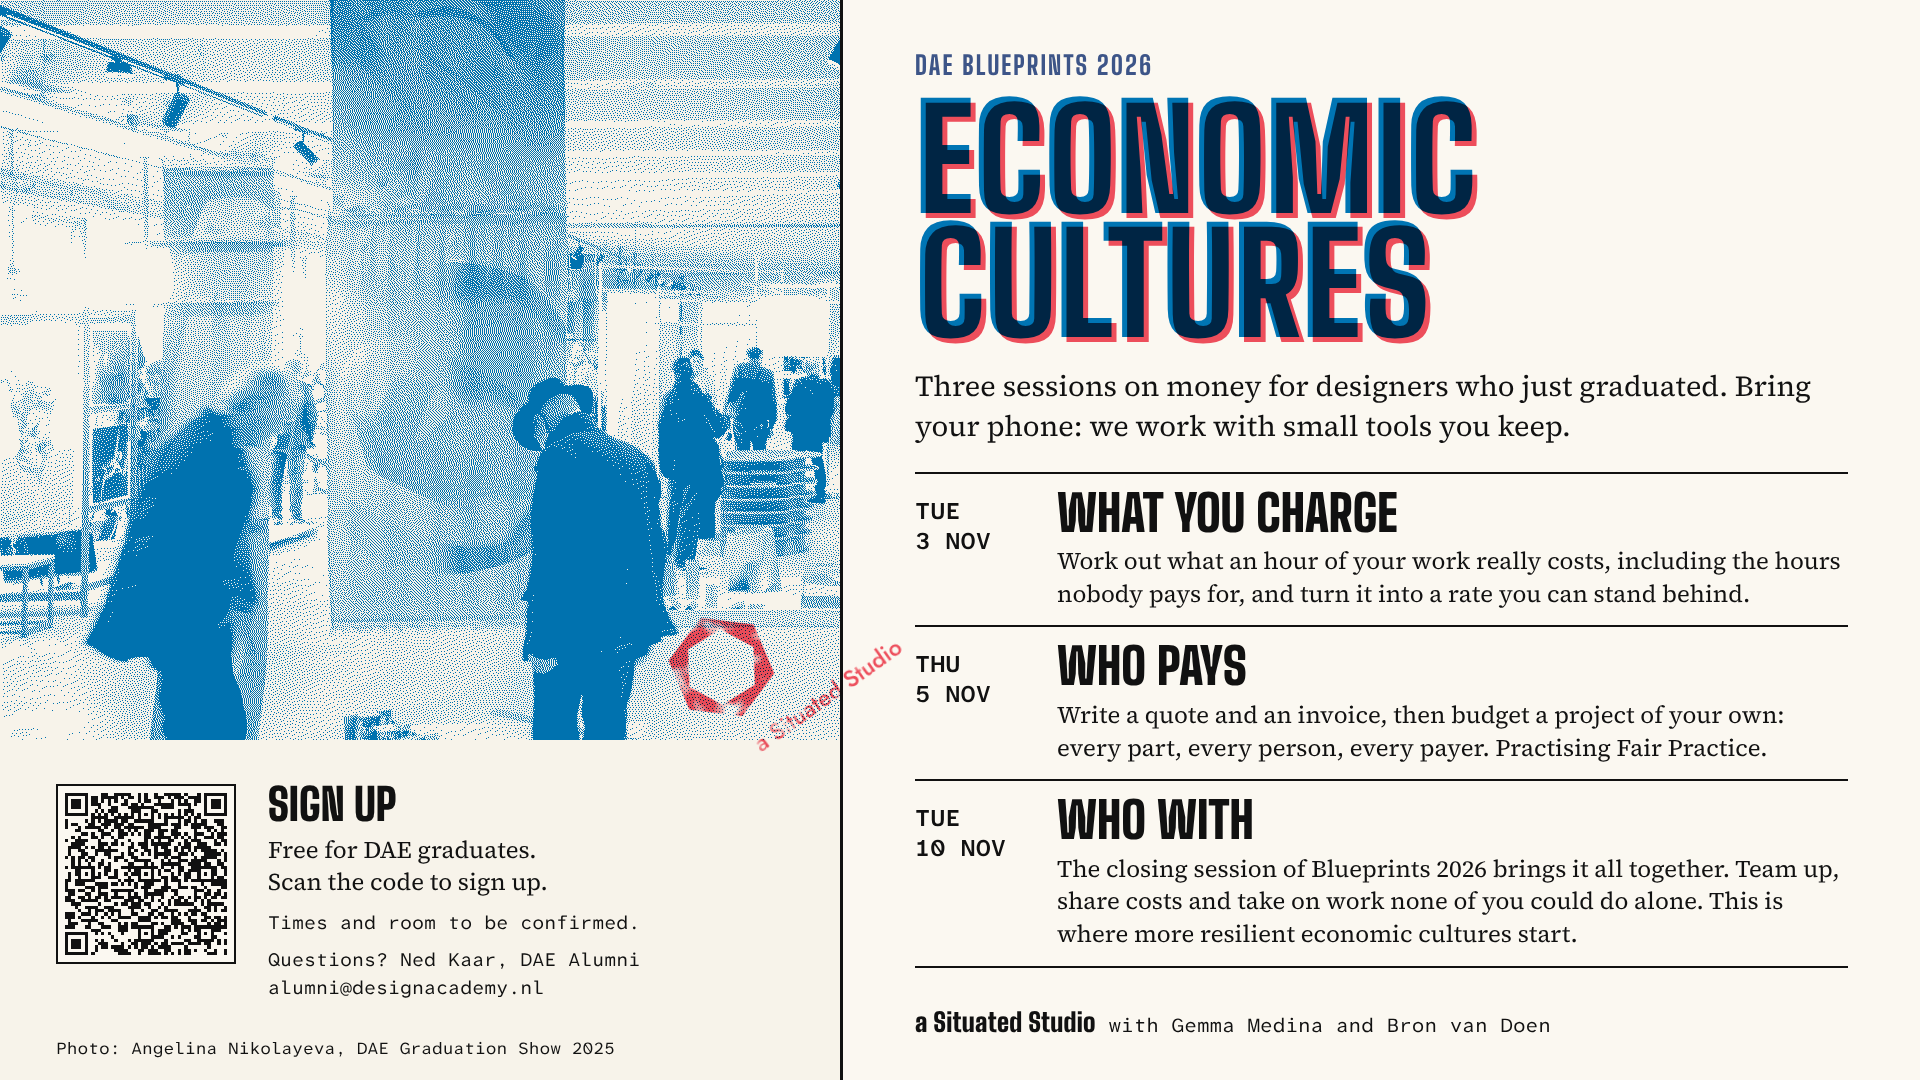
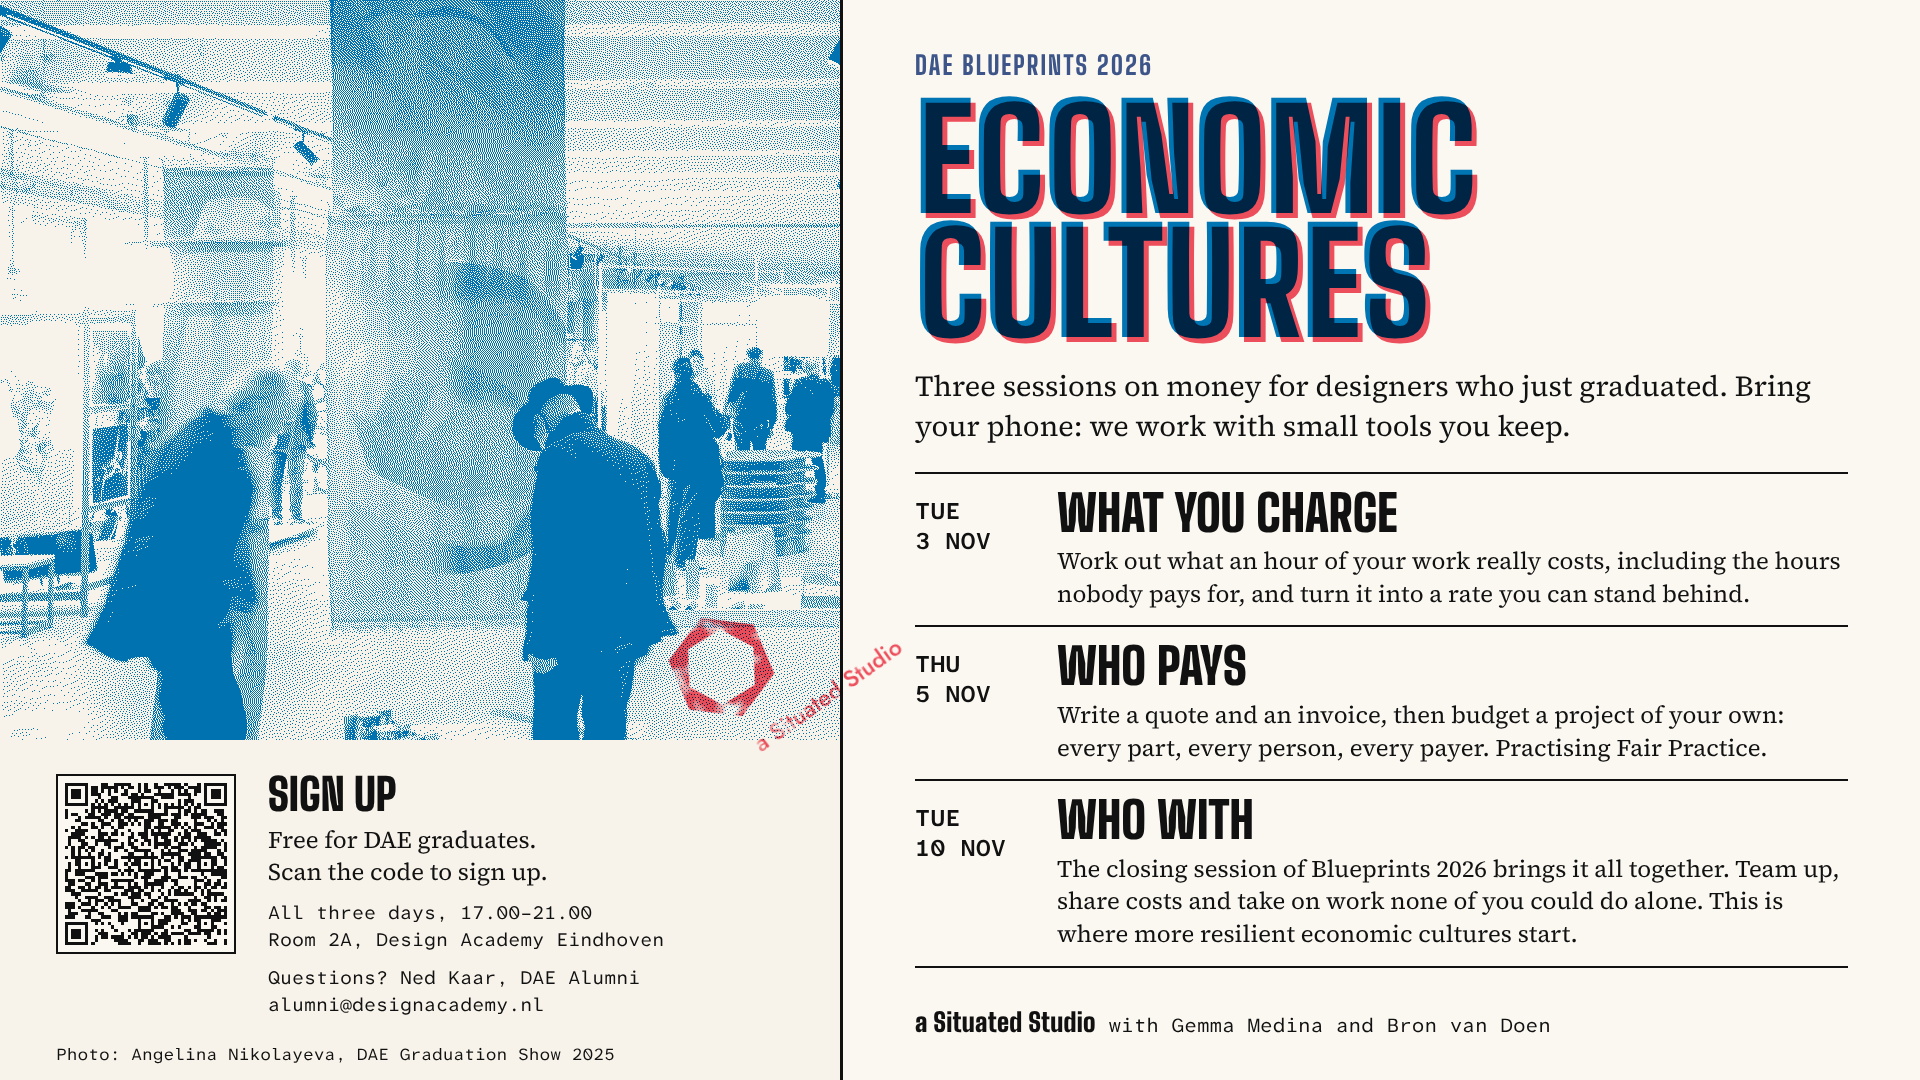
Economic Cultures flyer: times 17.00-21.00, Room 2A at Design Academy Eindhoven
Claude-Session: https://claude.ai/code/session_01SR4pp8G8YnCUnFiueeY4rd

Changed region(s): [[0.0312, 0.7028, 0.3438, 0.9778]]

diff --git a/public/prints/economic-cultures/blueprints-2026/index.html b/public/prints/economic-cultures/blueprints-2026/index.html
@@ -31,12 +31,12 @@ body.render{padding:0}
 .left{display:grid;grid-template-rows:740px 1fr}
 .photo{width:840px;height:740px;background:var(--ink-1);mix-blend-mode:multiply;
   -webkit-mask:url(photo-grain.png) 0 0/840px 740px no-repeat;mask:url(photo-grain.png) 0 0/840px 740px no-repeat}
-.signup{display:grid;grid-template-columns:180px 1fr;column-gap:32px;align-items:start;padding:44px 56px 0}
+.signup{display:grid;grid-template-columns:180px 1fr;column-gap:32px;align-items:start;padding:34px 56px 0}
 .qr{width:180px;height:180px;display:block;border:var(--rule) solid var(--ink)}
 .signup h2{font:900 44px/.95 var(--display);text-transform:uppercase;margin:0 0 8px}
 .signup p{font:400 24px/1.35 var(--text);margin:0 0 8px}
 .signup .contact{font:400 19px/1.45 var(--label);margin:10px 0 0}
-.signup .credit{grid-column:1/-1;font:400 17px/1.4 var(--label);margin:16px 0 0}
+.signup .credit{grid-column:1/-1;font:400 17px/1.4 var(--label);margin:12px 0 0}
 
 /* right: the raised sheet with all the text */
 .panel{background:var(--paper-raised);border-left:var(--rule-heavy) solid var(--ink);padding:52px 72px 40px;display:flex;flex-direction:column}
@@ -76,7 +76,7 @@ body.render{padding:0}
       <div>
         <h2>Sign up</h2>
         <p>Free for DAE graduates.<br>Scan the code to sign up.</p>
-        <p class="contact">Times and room to be confirmed.</p>
+        <p class="contact">All three days, 17.00–21.00<br>Room 2A, Design Academy Eindhoven</p>
         <p class="contact">Questions? Ned Kaar, DAE Alumni<br>alumni@designacademy.nl</p>
       </div>
       <p class="credit">Photo: Angelina Nikolayeva, DAE Graduation Show 2025</p>

diff --git a/src/content/entries/economic-cultures-flyer-2026/index.md b/src/content/entries/economic-cultures-flyer-2026/index.md
@@ -1,7 +1,8 @@
 ---
 title: Economic Cultures flyer
 date: 2026-10-20
-summary: The flyer for Economic Cultures at DAE Blueprints 2026, three sessions on money for designers who just graduated.
+updated: 2026-10-22
+summary: The flyer for Economic Cultures at DAE Blueprints 2026, three sessions on money for designers who just graduated, on 3, 5 and 10 November, 17.00–21.00 in Room 2A at Design Academy Eindhoven.
 kind: print
 tags: [economic-cultures]
 project: Economic Cultures
